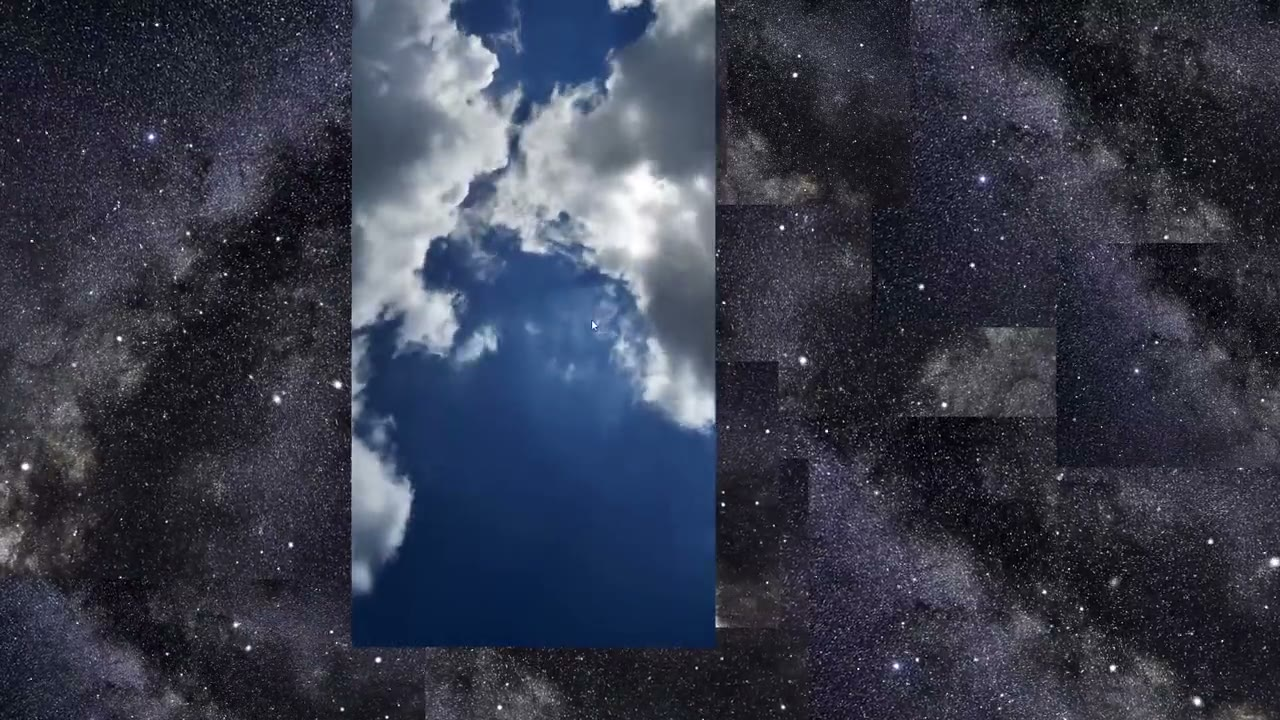
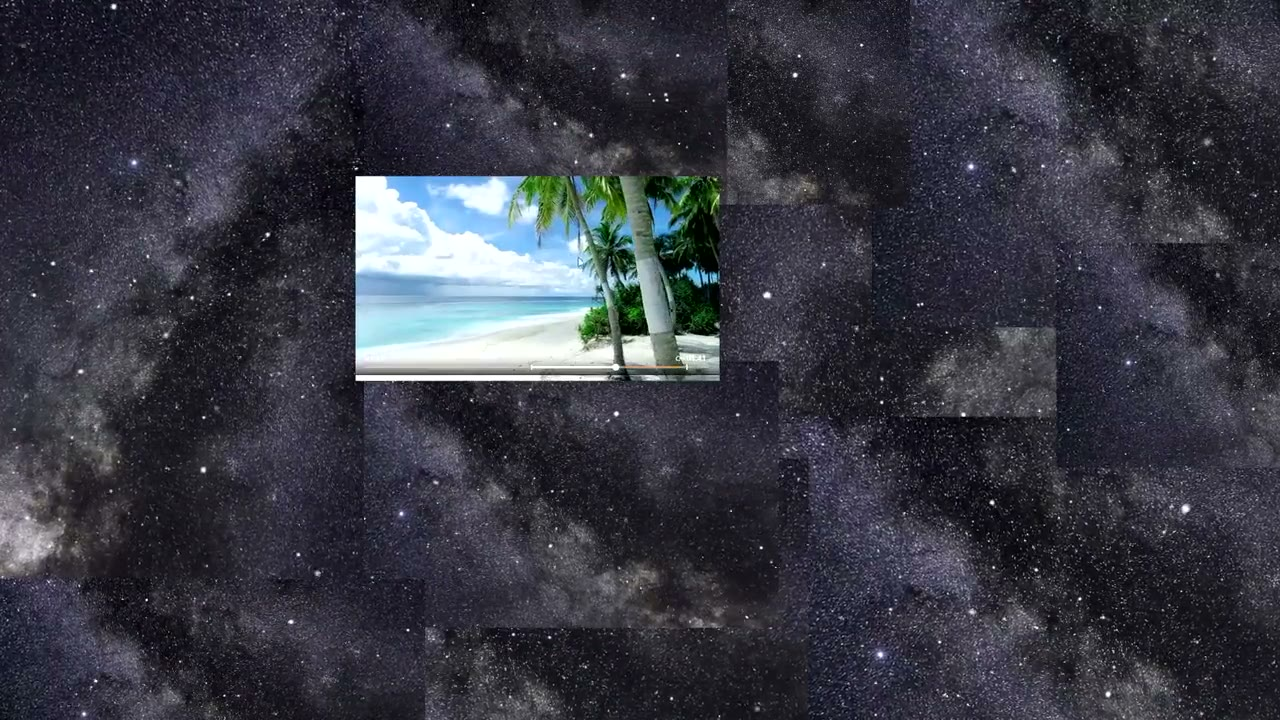
Make the landscape hero read as landscape
The poster was taken at 1.7s, which is the one moment in the clip where a
rotated portrait window fills the frame, so the still visitors landed on
looked vertical even though the video and its slot were 16:9. Take it from
6.0s instead, where the player is showing a landscape video with its scrub
bar and timecodes visible.

Widen the desktop slot from min(58vw, 780px) to min(68vw, 1040px). At 780px
in a wide viewport the frame was small enough that the window inside it
dominated, which compounded the poster problem.

diff --git a/src/fastplay-v3.css b/src/fastplay-v3.css
@@ -706,7 +706,7 @@
 @media (min-width: 761px) {
   .fastplay-v3 .fastcast-v2-hero-product {
     bottom: -6vh;
-    width: min(58vw, 780px);
+    width: min(68vw, 1040px);
     aspect-ratio: 16 / 9;
   }
 }
